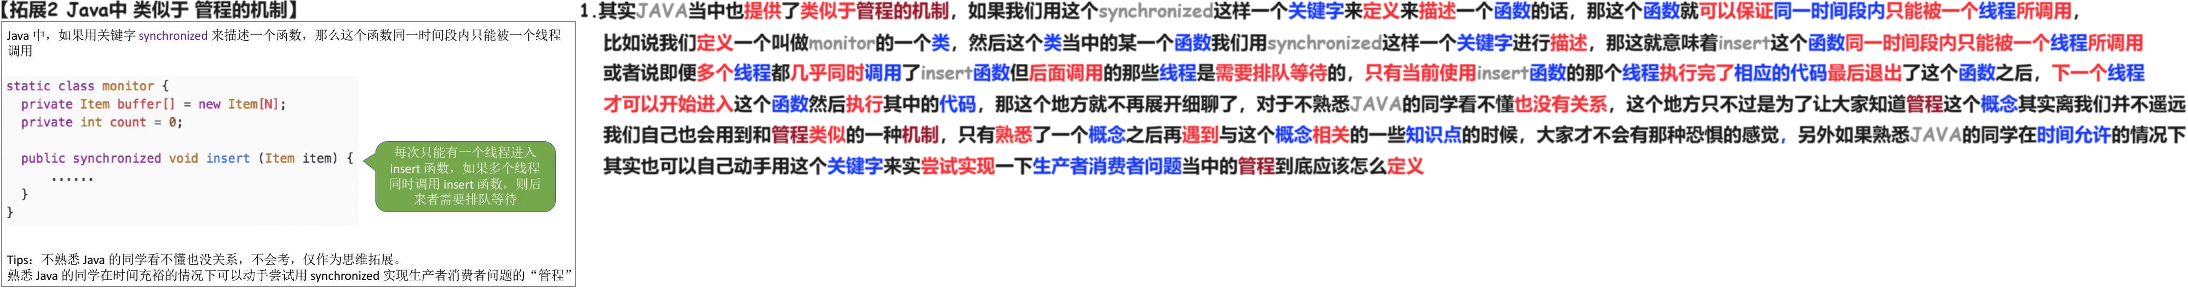
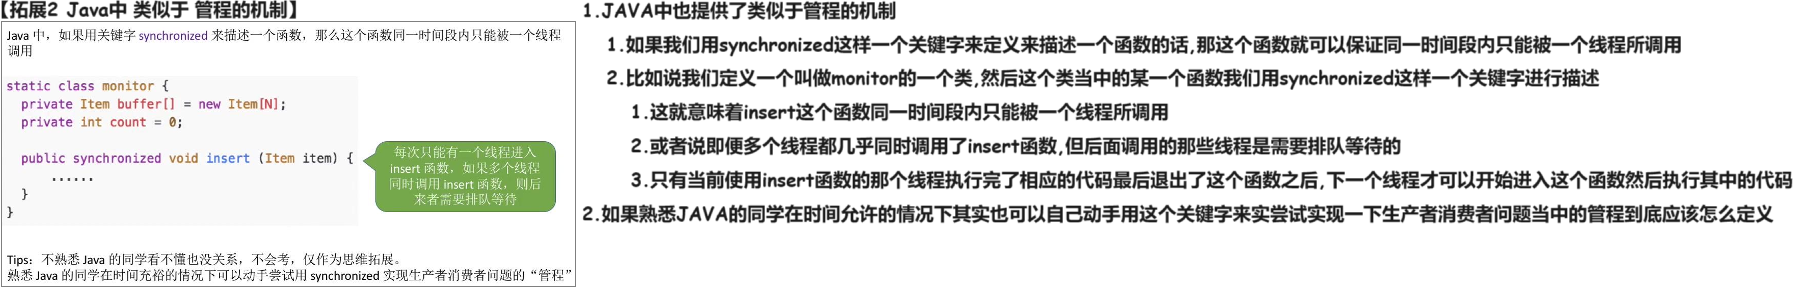
240603

diff --git a/01 初试/01 OS/02 24 25 王道/01 基础/02 进程 线程/03 同步 互斥/07 管程 240603/02 消化/02 Doc.md b/01 初试/01 OS/02 24 25 王道/01 基础/02 进程 线程/03 同步 互斥/07 管程 240603/02 消化/02 Doc.md
@@ -28,7 +28,7 @@
 
 # 05 拓展2 Java中 类似于 管程的机制
 
-
+<img src="https://cvp.oss-cn-shanghai.aliyuncs.com/picgo/202406031745679.png" alt="image-20240603174548573" style="zoom:50%;" />
 
 
 
